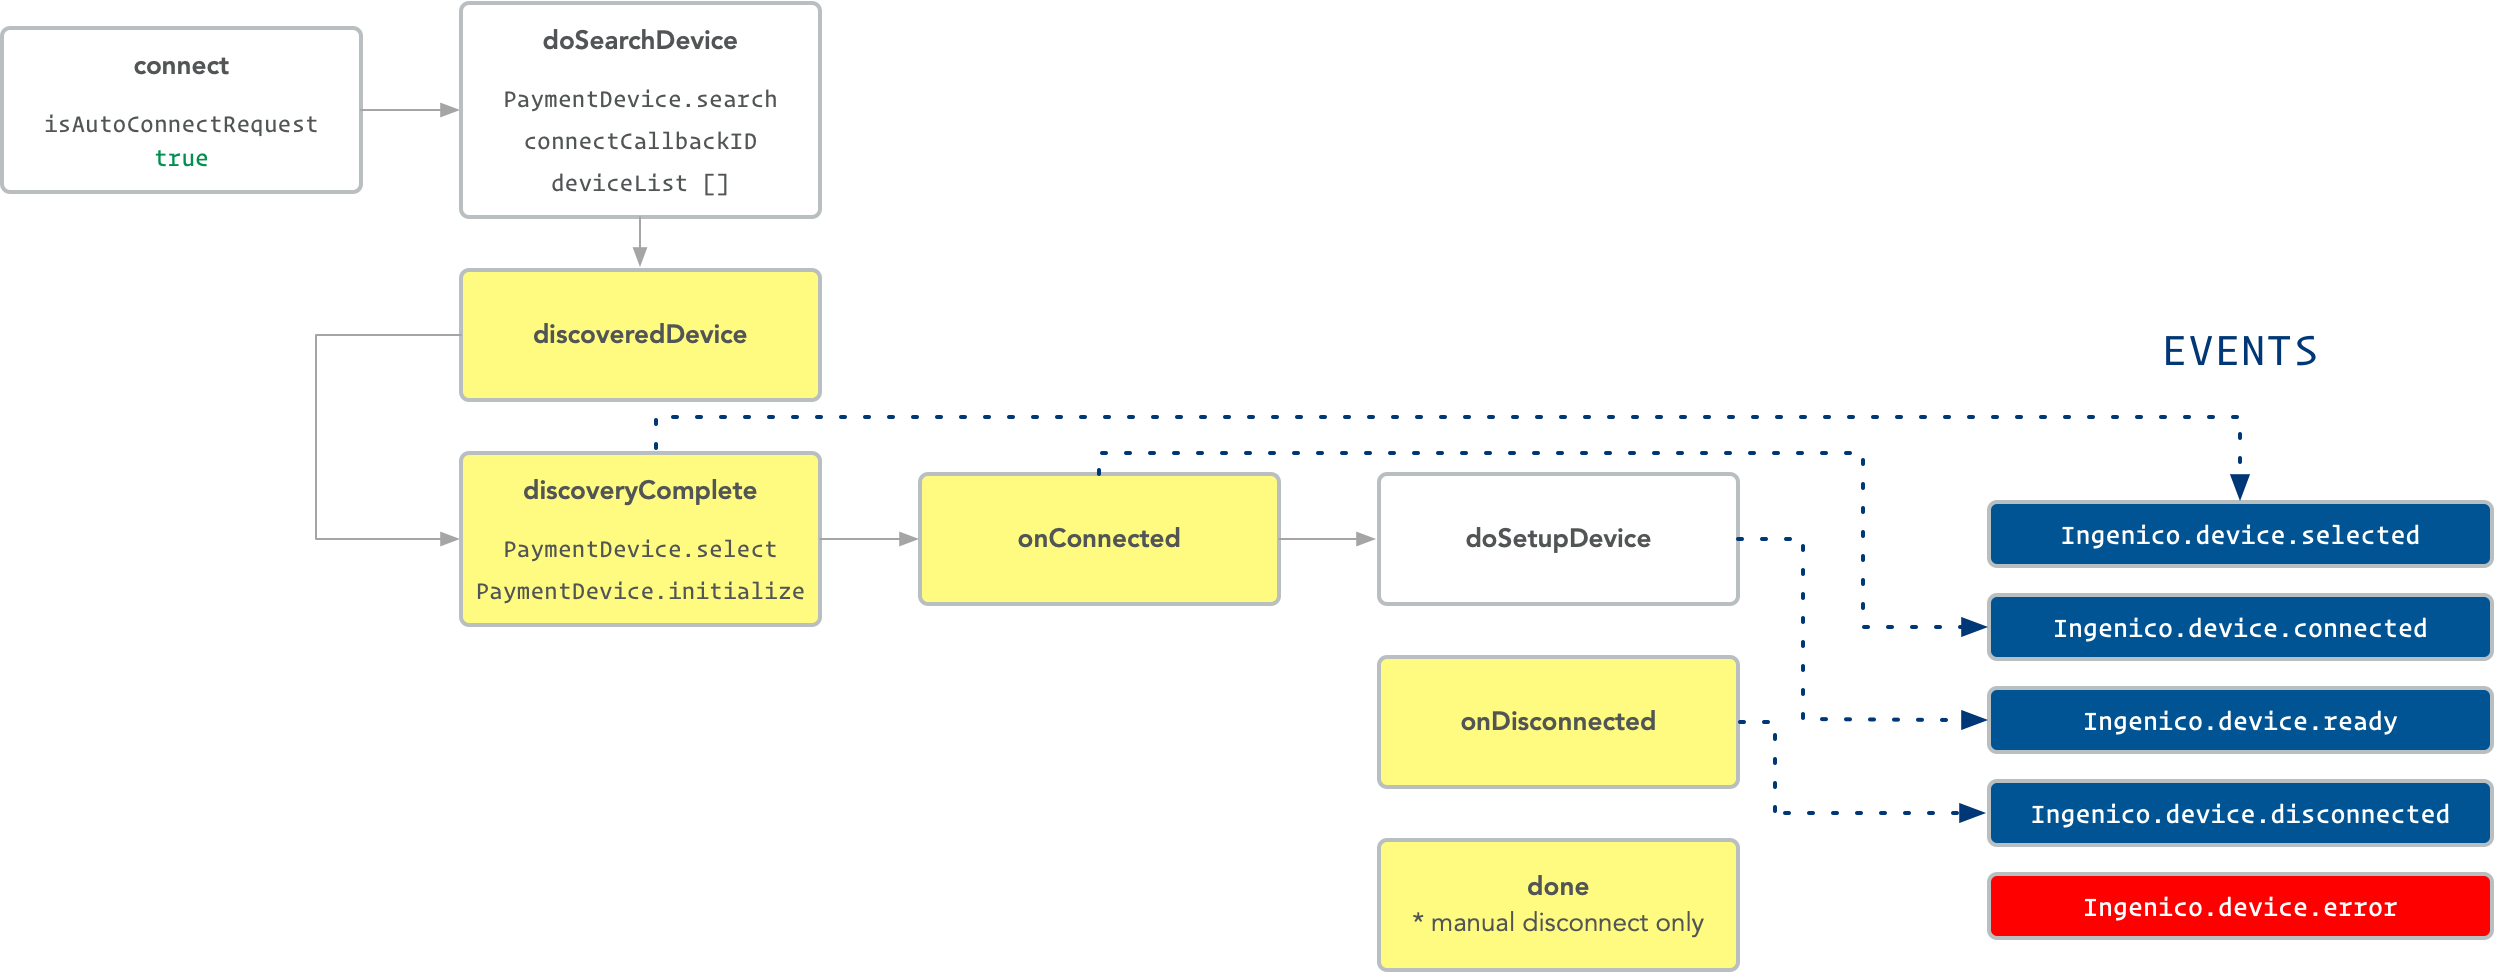
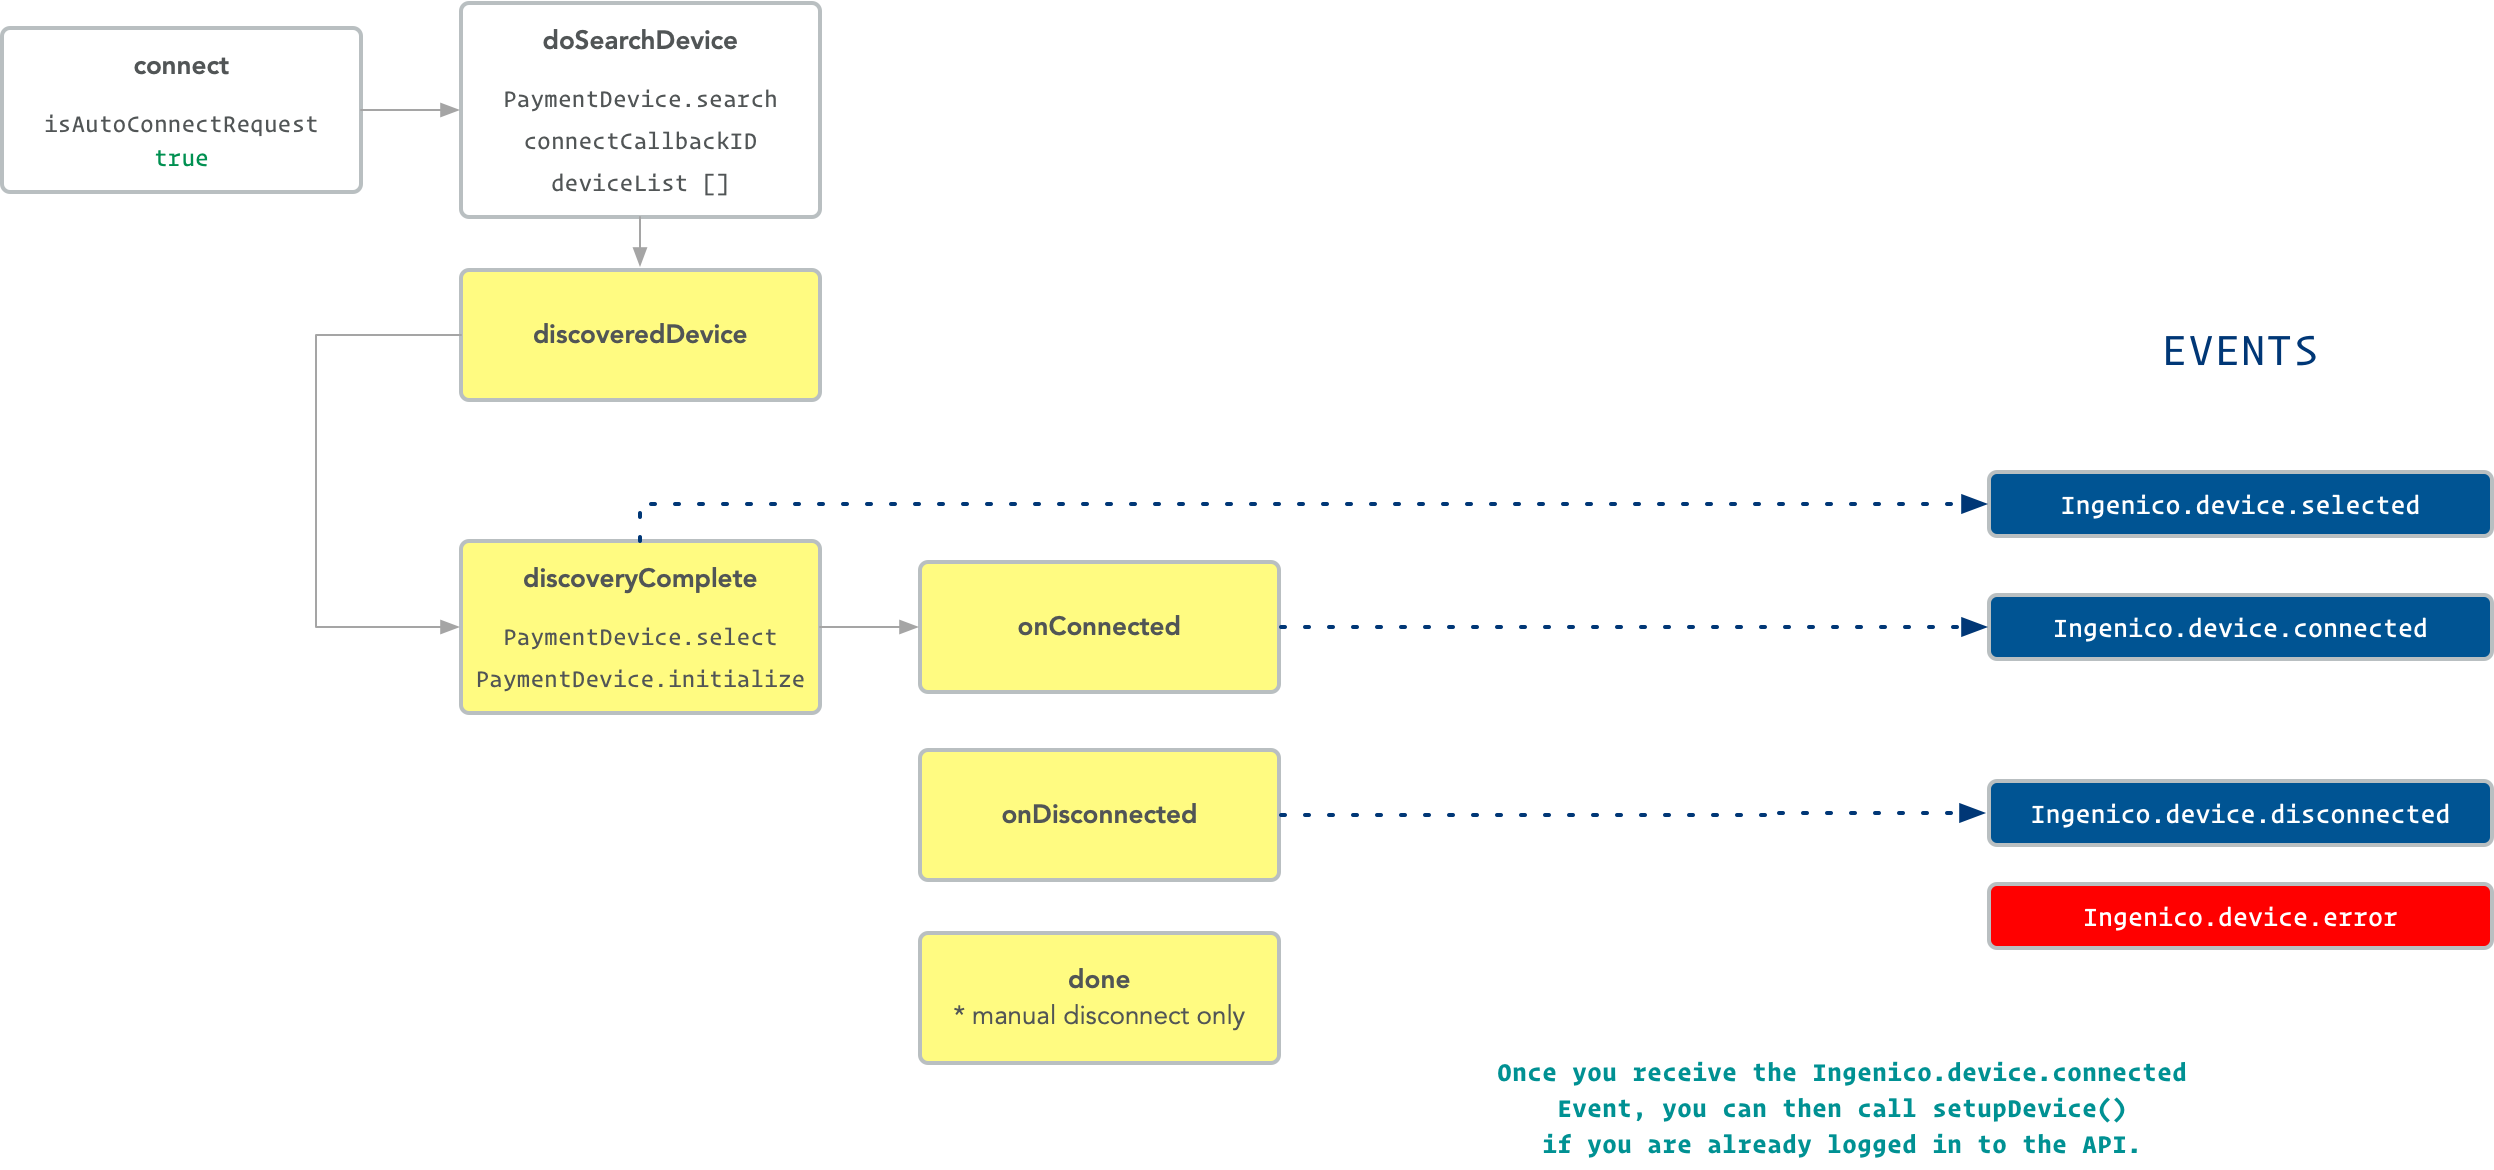
Version 1.2.0 Release
Updated README for new updates
Added arrow operator syntax for references to connectCallbackID

diff --git a/www/ingenico.js b/www/ingenico.js
@@ -77,7 +77,7 @@ var Ingenico = {
 
     /*************************************
      * Device Connection and Setup
-     **************************************/
+    **************************************/
 
     connect : function(success, error){
         if (_debug) { console.log('%cIngenico.js.connect',_style); }

diff --git a/src/ios/CDVIngenico.m b/src/ios/CDVIngenico.m
@@ -377,7 +377,7 @@ static long searchDuration       = 5000;
                 break;
             }
         }
-        [self sendPluginResult:connectCallbackID messageAsBool:deviceSeleted keepCallbackAsBool:deviceSeleted];
+        [self sendPluginResult:self->connectCallbackID messageAsBool:deviceSeleted keepCallbackAsBool:deviceSeleted];
     }
 }
 
@@ -526,7 +526,7 @@ static long searchDuration       = 5000;
     #ifdef DEBUG_MODE
         NSLog(@"onError() -> %@",message);
     #endif
-    [self doSearchForDevice:connectCallbackID];
+    [self doSearchForDevice:self->connectCallbackID];
 }
 
 // Invoked when a device manager releases all the resources it acquired ( manual disconnect )
@@ -649,11 +649,11 @@ static long searchDuration       = 5000;
             RUADevice *device = deviceList[0];
             [[Ingenico sharedInstance].PaymentDevice select:device];
             [[Ingenico sharedInstance].PaymentDevice initialize:self];
-            [self sendPluginResult:connectCallbackID messageAsString:@"selected" keepCallbackAsBool:true];
+            [self sendPluginResult:self->connectCallbackID messageAsString:@"selected" keepCallbackAsBool:true];
         }
         else
         {
-            [self sendPluginResult:connectCallbackID messageAsBool:false keepCallbackAsBool:false];
+            [self sendPluginResult:self->connectCallbackID messageAsBool:false keepCallbackAsBool:false];
         }
     }
     else
@@ -662,7 +662,7 @@ static long searchDuration       = 5000;
             NSLog(@"discoveryComplete() => Manual Lookup");
         #endif
         NSString *JSONResponse = [deviceList JSONString];
-        [self sendPluginResult:connectCallbackID messageAsString:JSONResponse keepCallbackAsBool:false];
+        [self sendPluginResult:self->connectCallbackID messageAsString:JSONResponse keepCallbackAsBool:false];
     }
 }
 

diff --git a/README.md b/README.md
@@ -1,4 +1,4 @@
-# Ingenico Cordova + Ionic Native Plugin 1.1.0
+# Ingenico Cordova + Ionic Native Plugin 1.2.0
 This plugin allows direct interactions with the native Ingenico mPOS SDK through JavaScript functions in your Ionic app. This includes creating EMV, Swipe and Cash charges, among other features.
 
 ## Ingenico mPOS SDK 1.9.0.8 not included
@@ -176,10 +176,10 @@ this.ingenico.getDeviceSerialNumber()
     .catch(error => {});
 ```
 
-### Device Connection Methods
+### Device Connection and Setup Methods
 
 #### connect()
-_Searches for an available device and automatically connects. This method receives statuses during the entire setup process which can be tracked by listening for dispatched events. This is discussed in [Connection Event Listeners](#connection-event-listeners)._
+_Searches for an available device and automatically selects and initializes the first  device found. This method receives statuses during the entire connection process which can be tracked by listening for dispatched events. This is discussed in [Connection Event Listeners](#connection-event-listeners)._
 
 ```javascript
 // Cordova
@@ -217,7 +217,18 @@ this.ingenico.isDeviceConnected()
     .catch(error => {});
 ```
 
-### Device Setup Methods
+#### selectDevice(Device)
+_Selects and initializes a Device from available Devices returned from a manual search.This method receives statuses during the entire connection process which can be tracked by listening for dispatched events. This is discussed in [Connection Event Listeners](#connection-event-listeners)._
+
+```javascript
+// Cordova
+Ingenico.selectDevice(Device,success, error);
+
+// Ionic
+this.ingenico.selectDevice(Device)
+    .then(result => {})
+    .catch(error => {});
+```
 
 #### setDeviceType(DeviceType)
 _Set the Device Type for the app to use. The application sets the device to `RUADeviceTypeRP750x` and this method allows you to overwrite it to any of the [Supported Devices](#supported-devices)._
@@ -232,15 +243,28 @@ this.ingenico.setDeviceType(DeviceType)
     .catch(error => {});
 ```
 
-#### selectDevice(Device)
-_Sets the selected Device from available Devices ( in manual mode ) and connects the device for use.This method receives statuses during the entire setup process which can be tracked by listening for dispatched events. This is discussed in [Connection Event Listeners](#connection-event-listeners)._
+#### setupDevice()
+_Finalizes setup of a selected and intialized device from either ``connect()``_or ``selectDevice()``. Please note this also requires that you are logged in to the API._
 
 ```javascript
 // Cordova
-Ingenico.selectDevice(Device,success, error);
+Ingenico.setupDevice(success, error);
 
 // Ionic
-this.ingenico.selectDevice(Device)
+this.ingenico.setupDevice(DeviceType)
+    .then(result => {})
+    .catch(error => {});
+```
+
+#### configureIdleShutdownTimeout(timeoutInSeconds)
+_Configure the duration that the device remains active before shutting down. Timeout is assigned in seconds within the range of 180 - 1800._
+
+```javascript
+// Cordova
+Ingenico.configureIdleShutdownTimeout(timeoutInSeconds,success, error);
+
+// Ionic
+this.ingenico.configureIdleShutdownTimeout(timeoutInSeconds)
     .then(result => {})
     .catch(error => {});
 ```
@@ -321,13 +345,11 @@ During the auto connect or select device process you can listen for custom dispa
 * __Ingenico.device.selected__<br />
 This event is dispatched when a device is selected. At this point the SDK starts the connection process.
 * __Ingenico.device.connected__<br />
-This event is dispatched when a device is succesfully connected. At this point the SDK starts the setup process.
-* __Ingenico.device.ready__<br />
-This event is dispatched when a device is ready for use.
+This event is dispatched when a device is succesfully connected.
 * __Ingenico.device.disconnected__<br />
 This event is dispatched when a device is disconnected manually or automatically due to the device going to sleep or loosing power.
 * __Ingenico.device.error__<br />
-This event is dispatched when an error occurs during the device setup process. When this event is received the error code or message is included in the detail object of the event.
+This event is dispatched when an error occurs during the device connection process. When this event is received the error code or message is included in the detail object of the event.
 
 Make sure to register listeners and unregister for these listeners properly. Below are examples of how to do this in Ionic.
 
@@ -346,15 +368,12 @@ ionViewWillEnter(){
         this.onDeviceSelectedBound = this.onDeviceSelected.bind(this);
     if (!this.onDeviceConnectedBound)
         this.onDeviceConnectedBound = this.onDeviceConnected.bind(this);
-    if (!this.onDeviceReadyBound)
-        this.onDeviceReadyBound = this.onDeviceReady.bind(this);
     if (!this.onDeviceDisconnectedBound)
         this.onDeviceDisconnectedBound = this.onDeviceDisconnected.bind(this);
     if (!this.onDeviceErrorBound)
         this.onDeviceErrorBound = this.onDeviceError.bind(this);
     document.addEventListener('Ingenico:device:selected',this.onDeviceSelectedBound,false);
     document.addEventListener('Ingenico:device:connected',this.onDeviceConnectedBound,false);
-    document.addEventListener('Ingenico:device:ready',this.onDeviceReadyBound,false);
     document.addEventListener('Ingenico:device:disconnected',this.onDeviceDisconnectedBound,false);
     document.addEventListener('Ingenico:device:error',this.onDeviceErrorBound,false);
 }
@@ -363,7 +382,6 @@ ionViewWillLeave(){
      // remove custom event listeners
     document.removeEventListener('Ingenico:device:selected',this.onDeviceSelectedBound,false);
     document.removeEventListener('Ingenico:device:connected',this.onDeviceConnectedBound,false);
-    document.removeEventListener('Ingenico:device:ready',this.onDeviceReadyBound,false);
     document.removeEventListener('Ingenico:device:disconnected',this.onDeviceDisconnectedBound,false);
     document.removeEventListener('Ingenico:device:error',this.onDeviceErrorBound,false);
 }
